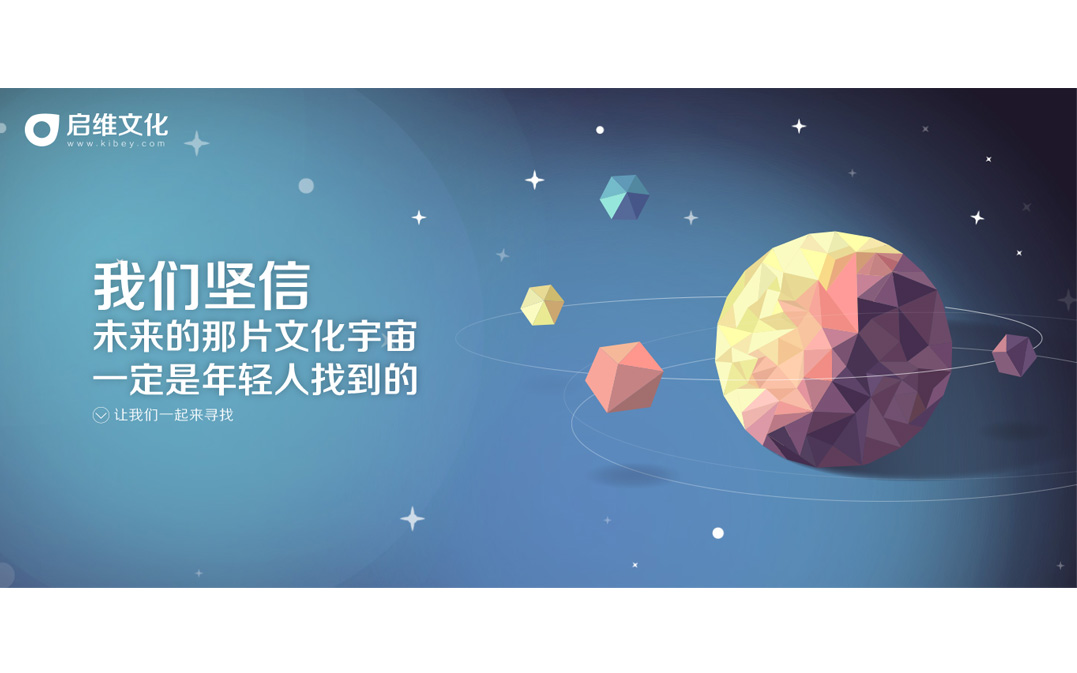
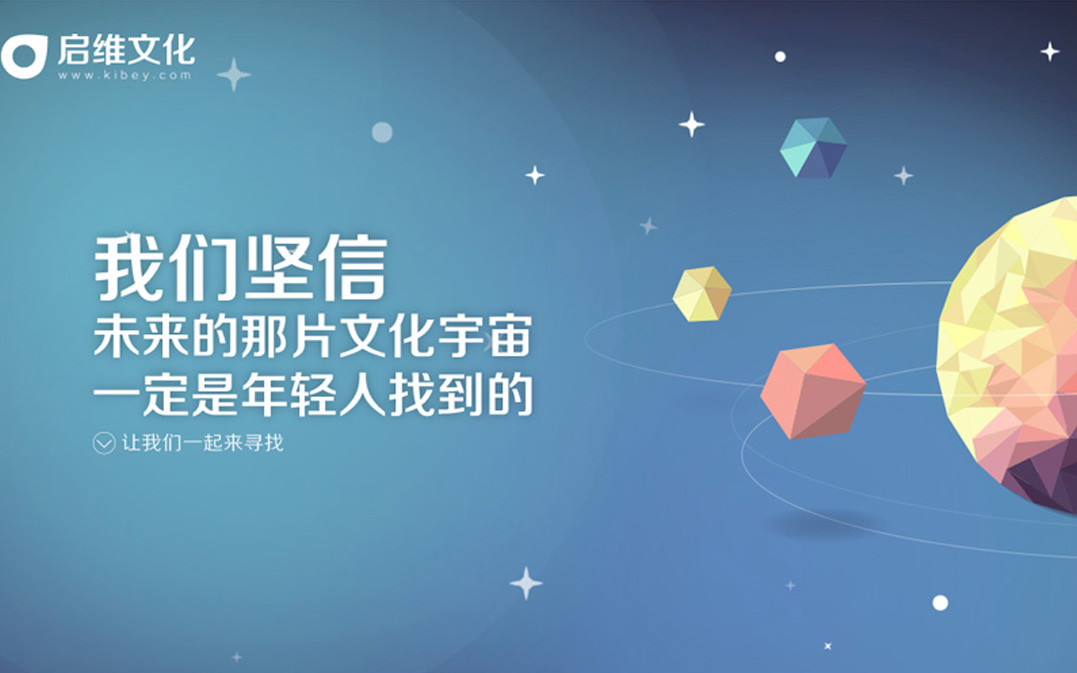
增加了轮播

diff --git a/css/style.css b/css/style.css
@@ -221,12 +221,38 @@ i.behance:hover{
     height: 0;
     clear: both;
 }
+.about-section-grids .tel{
+	margin-bottom: 20px;
+}
 .about-section-grids .tel span{
 	display: block;
-	width: 40px;
-	height: 40px;
-	background: yellow;
+	width: 65px;
+	height: 65px;
 	float: left;
+	background-image: url(../images/img-sprite.png);
+	background-repeat: no-repeat;
+	background-position: -96px -75px;
+}
+.about-section-grids .tel p{
+	margin-bottom: 0;
+	margin-left: 80px;
+	font-size: 20px;
+	line-height: 65px;
+}
+.about-section-grids .mail span{
+	display: block;
+	width: 65px;
+	height: 65px;
+	float: left;
+	background-image: url(../images/img-sprite.png);
+	background-repeat: no-repeat;
+	background-position: -8px -76px;
+}
+.about-section-grids .mail p{
+	margin-bottom: 0;
+	margin-left: 80px;
+	font-size: 20px;
+	line-height: 65px;
 }
 .about-section-grid-2.text-center img {
 	border-radius: 50%;
@@ -550,7 +576,22 @@ ul.wmuSliderPagination {
 	background-size: 100%;
 }
 .banner-4{
-	background-image: url(../images/kibey.png);
+	background-image: url(../images/kebey.jpg);
+	background-repeat:no-repeat; 
+	background-size: 100%;
+}
+.banner-5{
+	background-image: url(../images/chuizi.jpg);
+	background-repeat:no-repeat; 
+	background-size: 100%;
+}
+.banner-6{
+	background-image: url(../images/tianmao.jpg);
+	background-repeat:no-repeat; 
+	background-size: 100%;
+}
+.banner-7{
+	background-image: url(../images/xiaomi.jpg);
 	background-repeat:no-repeat; 
 	background-size: 100%;
 }

diff --git a/index.html b/index.html
@@ -102,6 +102,7 @@ License URL: http://creativecommons.org/licenses/by/3.0/
 						<br>
 						<h4>联系方式</h4>
 						<div class="tel"><span></span><p>13466853828</p></div>
+						<div class="mail"><span></span><p>13466853828@163.com</p></div>
 					</div>
 					<div class="col-md-4 about-section-grid-3">
 						<h4>我的技能</h4>
@@ -200,6 +201,9 @@ License URL: http://creativecommons.org/licenses/by/3.0/
 						    <div class="banner banner-2"></div>
 						    <div class="banner banner-3"></div>
 						    <div class="banner banner-4"></div>
+						    <div class="banner banner-5"></div>
+						    <div class="banner banner-6"></div>
+						    <div class="banner banner-7"></div>
 					    </div>
 			  <!-- script -->
 			  <script src="./js/jquery.wmuSlider.js"></script> 
@@ -216,7 +220,7 @@ License URL: http://creativecommons.org/licenses/by/3.0/
 			<div class="container">
 		 <ul id="filters" class="clearfix">
 						<li><span class="filter active" data-filter="app card icon web logo1">All</span></li>
-						<li><span class="filter" data-filter="app">Web Design</span></li>
+						<li><span class="filter" data-filter="app">网页应用</span></li>
 						<li><span class="filter" data-filter="card">Coding</span></li>
 						<li><span class="filter" data-filter="icon">Photography</span></li>
 						<li><span class="filter" data-filter="logo1">Freebies</span></li>

diff --git a/js/index.js b/js/index.js
@@ -10,5 +10,5 @@ $(function(){
 		});
 		$('.banner:first').next().animate({left:0})
 	}
-	var move=setInterval(times,5000);
+	var move=setInterval(times,1000);
 })
